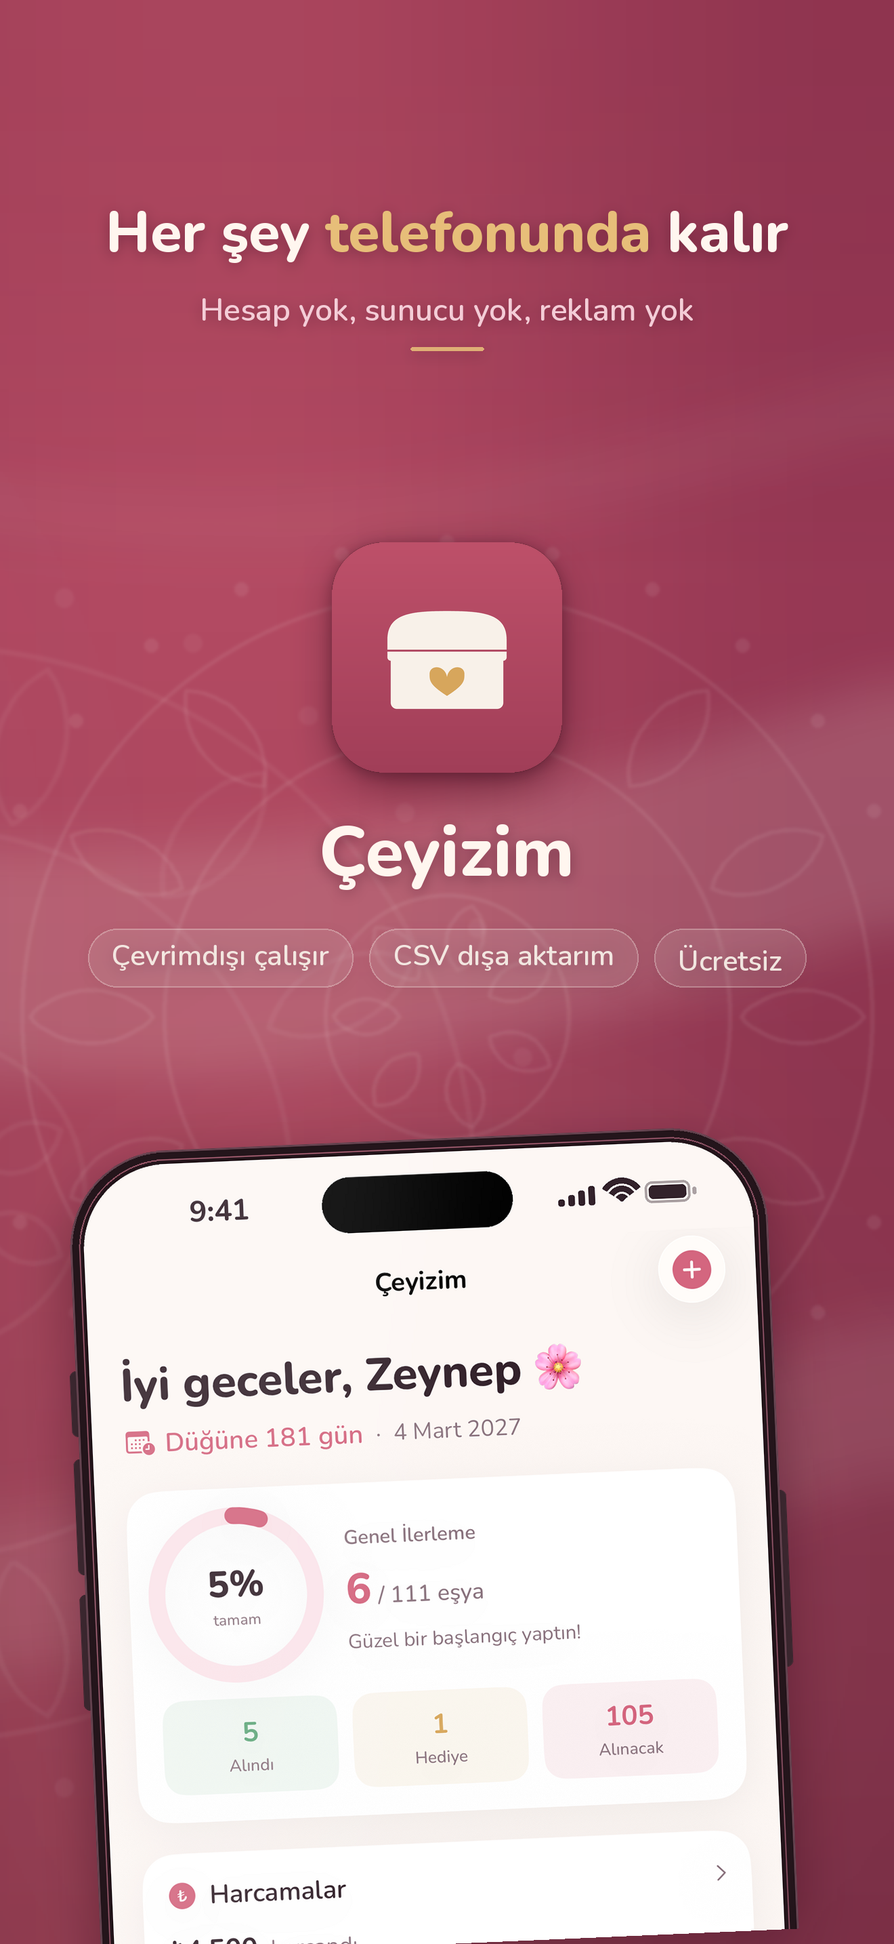
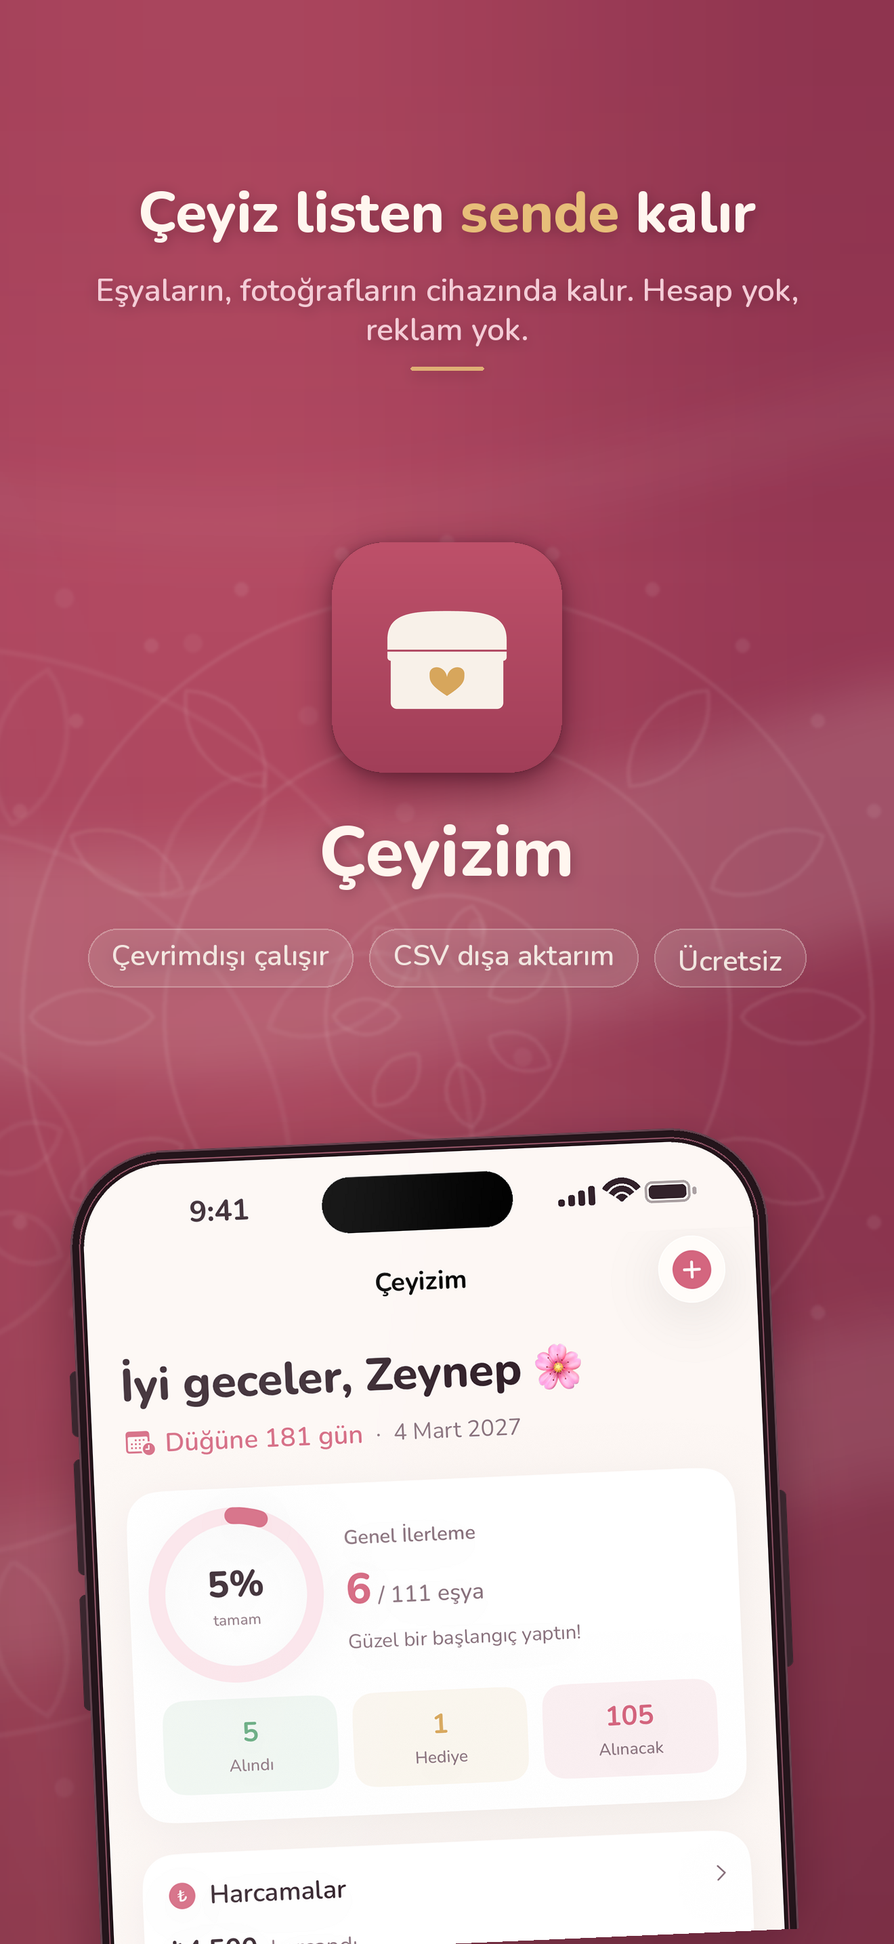
PostHog kullanım analitiği ekle, gizlilik beyanlarını güncelle
Ekran görüntülemeleri ve önemli buton tıklamalarını (eşya/kategori
ekleme, durum değişiklikleri, tema rengi, hazır liste, veri silme)
PostHog'un HTTP capture endpoint'ine (EU, eu.i.posthog.com) doğrudan
istek atan minik bir yardımcı (Ceyizim/Support/Analytics.swift) ile
izliyoruz — SDK bağımlılığı yok. Kimlik cihazda rastgele üretiliyor,
hiçbir kişisel veriyle eşleşmiyor; çeyiz listesinin içeriği (eşya adı,
fiyat, foto, not) hiçbir zaman gönderilmiyor.

Bu, 1.0–1.2'de Apple'a ve kullanıcıya verilen "hiç ağ isteği / veri
toplama yok" beyanını değiştiriyor:
- PrivacyInfo.xcprivacy: NSPrivacyCollectedDataTypeProductInteraction
  eklendi (linked: false, tracking: false, purpose: Analytics)
- Gizlilik politikası (AppStore/privacy-policy.md, docs/gizlilik/)
  PostHog'u açıkça belirtecek şekilde yeniden yazıldı
- Ayarlar ekranındaki "hiçbir sunucuya gönderilmez" beyanı düzeltildi
- Kapanış ekran görüntüsündeki "sunucu yok" iddiası kaldırıldı,
  görsel yeniden üretildi
- AppStore/asc-fields.md ve metadata.md'ye 1.3 için App Store
  Connect'te App Privacy etiketini ve İnceleme Notlarını nasıl
  güncelleyeceğimizi anlatan bölümler eklendi

Changed region(s): [[0.1242, 0.0931, 0.8697, 0.1862]]

diff --git a/docs/gizlilik/index.html b/docs/gizlilik/index.html
@@ -1,26 +1,30 @@
 <!doctype html><html lang="tr"><head><meta charset="utf-8"><meta name="viewport" content="width=device-width,initial-scale=1"><title>Çeyizim – Gizlilik Politikası</title><style>body{font-family:-apple-system,system-ui,sans-serif;max-width:720px;margin:40px auto;padding:0 20px;line-height:1.6;color:#33222B;background:#FDF7F4}h1,h2{font-family:Georgia,serif;color:#33222B}a{color:#D4667F}hr{border:0;border-top:1px solid #F0E2E6;margin:32px 0}</style></head><body><h1>Çeyizim Gizlilik Politikası</h1>
-<p><strong>Son güncelleme:</strong> 4 Eylül 2026</p>
+<p><strong>Son güncelleme:</strong> 22 Eylül 2026</p>
 <p>Çeyizim (&quot;Uygulama&quot;), çeyiz hazırlığınızı planlamanıza yardımcı olan bir iOS uygulamasıdır. Gizliliğiniz bizim için önemlidir; bu politika hangi verilerin nasıl işlendiğini açıklar.</p>
-<h2>Toplanan veriler</h2>
-<p>Çeyizim <strong>hiçbir kişisel veri toplamaz, iletmez veya üçüncü taraflarla paylaşmaz.</strong></p>
+<h2>Çeyiz listeniz</h2>
+<p>Uygulamaya girdiğiniz tüm bilgiler (adınız, düğün tarihiniz, eşya listeleriniz, fiyatlar, notlar ve fotoğraflar) <strong>yalnızca cihazınızda saklanır ve hiçbir sunucuya gönderilmez.</strong> Hesap oluşturma veya oturum açma yoktur.</p>
+<h2>Kullanım analitiği</h2>
+<p>Uygulamayı nasıl kullandığınızı anlayıp geliştirebilmek için PostHog (AB&#x27;de barındırılan bir analitik servisi) üzerinden <strong>kimliksiz kullanım istatistikleri</strong> topluyoruz: hangi ekranların açıldığı ve hangi düğmelere basıldığı gibi (örn. bir eşyanın &quot;Alındı&quot; işaretlenmesi, hazır listenin eklenmesi).</p>
 <ul>
-<li>Uygulamaya girdiğiniz tüm bilgiler (adınız, düğün tarihiniz, bütçeniz, eşya listeleriniz, fiyatlar, notlar ve fotoğraflar) yalnızca cihazınızda saklanır.</li>
-<li>Uygulama internet bağlantısı kullanmaz; hiçbir sunucuya veri göndermez.</li>
-<li>Hesap oluşturma veya oturum açma yoktur.</li>
-<li>Analitik, reklam veya takip (tracking) SDK&#x27;sı içermez.</li>
+<li>Bu veriler, cihazda rastgele üretilen ve isminizle, e-postanızla ya da girdiğiniz hiçbir bilgiyle eşleştirilmeyen bir kimlikle ilişkilendirilir.</li>
+<li>Çeyiz listenizin <strong>içeriği</strong> (eşya adları, fiyatlar, notlar, fotoğraflar) bu istatistiklere hiçbir şekilde dahil edilmez.</li>
+<li>Bu veriler reklam amacıyla kullanılmaz, üçüncü taraflarla (PostHog dışında) paylaşılmaz ve sizi başka uygulamalar veya web siteleri arasında takip etmek için kullanılmaz.</li>
+<li>Uygulama içinde reklam veya reklam SDK&#x27;sı yoktur.</li>
 </ul>
 <h2>Fotoğraflar</h2>
-<p>Bir eşyaya fotoğraf eklediğinizde, seçtiğiniz fotoğraf küçültülerek cihazınızdaki uygulama verisine kaydedilir. Uygulama fotoğraf kitaplığınızın tamamına erişmez; yalnızca sizin seçtiğiniz görüntüyü alır.</p>
+<p>Bir eşyaya fotoğraf eklediğinizde, seçtiğiniz fotoğraf küçültülerek cihazınızdaki uygulama verisine kaydedilir. Uygulama fotoğraf kitaplığınızın tamamına erişmez; yalnızca sizin seçtiğiniz görüntüyü alır. Fotoğraflar hiçbir sunucuya gönderilmez.</p>
 <h2>Veri paylaşımı</h2>
 <p>&quot;CSV olarak dışa aktar&quot; özelliğini kullandığınızda listeniz bir dosya olarak oluşturulur ve iOS paylaşım menüsü üzerinden seçtiğiniz uygulamaya/kişiye gönderilir. Bu paylaşımı yalnızca siz başlatırsınız.</p>
 <h2>Verilerin silinmesi</h2>
-<p>Verilerinizi Ayarlar &gt; &quot;Tüm verileri sil&quot; ile istediğiniz zaman kalıcı olarak silebilirsiniz. Uygulamayı cihazınızdan kaldırdığınızda tüm veriler de silinir.</p>
+<p>Çeyiz listenizi Ayarlar &gt; &quot;Tüm verileri sil&quot; ile istediğiniz zaman kalıcı olarak silebilirsiniz. Uygulamayı cihazınızdan kaldırdığınızda tüm veriler de silinir.</p>
 <h2>Çocukların gizliliği</h2>
-<p>Uygulama 13 yaş altı çocuklara yönelik değildir ve kimseden kişisel veri toplamaz.</p>
+<p>Uygulama 13 yaş altı çocuklara yönelik değildir ve kimseden bilerek kişisel veri toplamaz.</p>
 <h2>Değişiklikler</h2>
 <p>Bu politika güncellenirse yeni sürüm bu sayfada yayımlanır.</p>
 <h2>İletişim</h2>
 <p>Sorularınız için: tahakndcaliskan@gmail.com</p>
 <hr>
 <h1>Çeyizim Privacy Policy (English)</h1>
-<p>Çeyizim does not collect, transmit, or share any personal data. Everything you enter (name, wedding date, budget, item lists, prices, notes, photos) is stored only on your device. The app makes no network requests, has no accounts, and contains no analytics, advertising, or tracking SDKs. Photos you attach are downscaled and stored locally; the app only receives the images you explicitly pick. CSV export is initiated by you through the iOS share sheet. You can delete all data at any time from Settings, or by removing the app. Contact: tahakndcaliskan@gmail.com</p></body></html>
+<p>Everything you enter in Çeyizim (name, wedding date, item lists, prices, notes, photos) is stored only on your device and never sent to any server. There is no account or login.</p>
+<p>To understand how the app is used and improve it, we collect <strong>anonymous usage analytics</strong> via PostHog (hosted in the EU): which screens are opened and which actions are taken (e.g., marking an item &quot;purchased,&quot; applying the ready-made template). This is tied to a random, on-device identifier that is never linked to your name, email, or anything you enter. The content of your list — item names, prices, notes, photos — is never included in this data. It is not used for advertising, not shared with anyone besides our analytics processor, and not used to track you across other companies&#x27; apps or websites. The app contains no advertising or ad SDKs.</p>
+<p>Photos you attach are downscaled and stored locally; the app only receives the image you explicitly pick, and photos are never uploaded anywhere. CSV export is initiated by you through the iOS share sheet. You can delete all data at any time from Settings, or by removing the app. Contact: tahakndcaliskan@gmail.com</p></body></html>

diff --git a/Ceyizim/Views/Items/CategoryDetailView.swift b/Ceyizim/Views/Items/CategoryDetailView.swift
@@ -52,7 +52,10 @@ struct CategoryDetailView: View {
                                 .swipeActions(edge: .trailing, allowsFullSwipe: false) {
                                     Button(role: .destructive) { itemToDelete = item } label: { Label("Sil", systemImage: "trash") }
                                     if item.status != .gifted {
-                                        Button { withAnimation { item.mark(.gifted) } } label: { Label("Hediye", systemImage: "gift.fill") }
+                                        Button {
+                                            withAnimation { item.mark(.gifted) }
+                                            Analytics.track("item_marked_gifted")
+                                        } label: { Label("Hediye", systemImage: "gift.fill") }
                                             .tint(Palette.gold)
                                     }
                                 }
@@ -62,10 +65,14 @@ struct CategoryDetailView: View {
                                             withAnimation { item.mark(.purchased) }
                                             Haptics.success()
                                             ReviewPrompt.requestAfterFirstPurchase { requestReview() }
+                                            Analytics.track("item_marked_purchased")
                                         } label: { Label("Alındı", systemImage: "checkmark") }
                                             .tint(Palette.success)
                                     } else {
-                                        Button { withAnimation { item.mark(.planned) } } label: { Label("Alınacak", systemImage: "arrow.uturn.backward") }
+                                        Button {
+                                            withAnimation { item.mark(.planned) }
+                                            Analytics.track("item_marked_planned")
+                                        } label: { Label("Alınacak", systemImage: "arrow.uturn.backward") }
                                             .tint(Palette.textSecondary)
                                     }
                                 }
@@ -91,6 +98,7 @@ struct CategoryDetailView: View {
         .background(Palette.background)
         .navigationTitle(category.name)
         .navigationBarTitleDisplayMode(.inline)
+        .onAppear { Analytics.screen("category_detail") }
         .toolbar {
             ToolbarItem(placement: .topBarTrailing) {
                 HStack {
@@ -118,6 +126,7 @@ struct CategoryDetailView: View {
                             titleVisibility: .visible) {
             Button("Sil", role: .destructive) {
                 if let item = itemToDelete { context.delete(item) }
+                Analytics.track("item_deleted")
                 itemToDelete = nil
             }
             Button("Vazgeç", role: .cancel) { itemToDelete = nil }
@@ -160,6 +169,7 @@ struct CategoryDetailView: View {
     private func deleteCategory() {
         isDeleted = true
         dismiss()
+        Analytics.track("category_deleted")
         let target = category
         DispatchQueue.main.asyncAfter(deadline: .now() + 0.35) {
             context.delete(target)

diff --git a/Ceyizim/Views/Items/ItemsListView.swift b/Ceyizim/Views/Items/ItemsListView.swift
@@ -133,6 +133,7 @@ struct ItemsListView: View {
                                 titleVisibility: .visible) {
                 Button("Sil", role: .destructive) {
                     if let item = itemToDelete { context.delete(item) }
+                    Analytics.track("item_deleted")
                     itemToDelete = nil
                 }
                 Button("Vazgeç", role: .cancel) { itemToDelete = nil }
@@ -189,7 +190,10 @@ struct ItemsListView: View {
                                 Label("Sil", systemImage: "trash")
                             }
                             if item.status != .gifted {
-                                Button { withAnimation { item.mark(.gifted) } } label: {
+                                Button {
+                                    withAnimation { item.mark(.gifted) }
+                                    Analytics.track("item_marked_gifted")
+                                } label: {
                                     Label("Hediye", systemImage: "gift.fill")
                                 }.tint(Palette.gold)
                             }
@@ -200,11 +204,15 @@ struct ItemsListView: View {
                                     withAnimation { item.mark(.purchased) }
                                     Haptics.success()
                                     ReviewPrompt.requestAfterFirstPurchase { requestReview() }
+                                    Analytics.track("item_marked_purchased")
                                 } label: {
                                     Label("Alındı", systemImage: "checkmark")
                                 }.tint(Palette.success)
                             } else {
-                                Button { withAnimation { item.mark(.planned) } } label: {
+                                Button {
+                                    withAnimation { item.mark(.planned) }
+                                    Analytics.track("item_marked_planned")
+                                } label: {
                                     Label("Alınacak", systemImage: "arrow.uturn.backward")
                                 }.tint(Palette.textSecondary)
                             }

diff --git a/Ceyizim/Views/Settings/SettingsView.swift b/Ceyizim/Views/Settings/SettingsView.swift
@@ -93,6 +93,9 @@ struct SettingsView: View {
                     Picker("Para birimi", selection: $currency) {
                         ForEach(CurrencyOption.all) { Text($0.title).tag($0.code) }
                     }
+                    .onChange(of: currency) { _, newValue in
+                        Analytics.track("currency_changed", ["currency": newValue])
+                    }
                 } header: {
                     Text("Harcamalar")
                 } footer: {
@@ -115,7 +118,7 @@ struct SettingsView: View {
                 } header: {
                     Text("Veriler")
                 } footer: {
-                    Text("Verilerin yalnızca bu cihazda saklanır; hiçbir sunucuya gönderilmez. \(items.count) eşya, \(categories.count) kategori.")
+                    Text("Çeyiz listen (eşyalar, fotoğraflar, notlar) yalnızca bu cihazda saklanır, hiçbir sunucuya gönderilmez. Uygulamayı nasıl kullandığına dair kimliksiz istatistikler (örn. hangi ekranın açıldığı) paylaşılır. \(items.count) eşya, \(categories.count) kategori.")
                 }
 
                 Section("Hakkında") {
@@ -139,6 +142,7 @@ struct SettingsView: View {
                     seededTemplate = true
                     templateResult = added
                     Haptics.success()
+                    Analytics.track("template_applied", ["added_count": added])
                 }
                 Button("Vazgeç", role: .cancel) {}
             } message: {
@@ -161,6 +165,7 @@ struct SettingsView: View {
     }
 
     private func deleteAll() {
+        Analytics.track("all_data_deleted", ["item_count": items.count, "category_count": categories.count])
         for item in items { context.delete(item) }
         for category in categories { context.delete(category) }
         try? context.save()

diff --git a/Ceyizim/Support/Analytics.swift b/Ceyizim/Support/Analytics.swift
@@ -1,0 +1,40 @@
+import Foundation
+
+/// Minimal PostHog event capture over their public HTTP API — no SDK dependency.
+/// Uses a random, app-generated id (not IDFA/IDFV), never linked to name, email,
+/// or any other identity in the app. Fire-and-forget: never blocks the UI and
+/// silently drops events when offline.
+enum Analytics {
+    private static let apiKey = "phc_v5LAhymhZEt4jgSqt6YFz2Xc3SsrS3J3zhkah35AjsY9"
+    private static let endpoint = URL(string: "https://eu.i.posthog.com/capture/")!
+
+    private static let distinctID: String = {
+        let key = "posthogDistinctID"
+        if let existing = UserDefaults.standard.string(forKey: key) { return existing }
+        let generated = UUID().uuidString
+        UserDefaults.standard.set(generated, forKey: key)
+        return generated
+    }()
+
+    static func track(_ event: String, _ properties: [String: Any] = [:]) {
+        var props = properties
+        props["distinct_id"] = distinctID
+        let payload: [String: Any] = [
+            "api_key": apiKey,
+            "event": event,
+            "properties": props,
+            "timestamp": ISO8601DateFormatter().string(from: Date()),
+        ]
+        guard let body = try? JSONSerialization.data(withJSONObject: payload) else { return }
+        var request = URLRequest(url: endpoint)
+        request.httpMethod = "POST"
+        request.setValue("application/json", forHTTPHeaderField: "Content-Type")
+        request.httpBody = body
+        URLSession.shared.dataTask(with: request).resume()
+    }
+
+    /// Screen-view convenience — call from `.onAppear` on each top-level screen.
+    static func screen(_ name: String) {
+        track("screen_viewed", ["screen": name])
+    }
+}

diff --git a/Ceyizim/Views/Items/ItemDetailView.swift b/Ceyizim/Views/Items/ItemDetailView.swift
@@ -24,6 +24,7 @@ struct ItemDetailView: View {
         .background(Palette.background)
         .navigationTitle("")
         .navigationBarTitleDisplayMode(.inline)
+        .onAppear { Analytics.screen("item_detail") }
         .toolbar {
             ToolbarItem(placement: .topBarTrailing) {
                 Menu {
@@ -114,16 +115,19 @@ struct ItemDetailView: View {
                 actionButton(title: "Alındı", icon: "checkmark.circle.fill", color: Palette.success) {
                     item.mark(.purchased); Haptics.success()
                     ReviewPrompt.requestAfterFirstPurchase { requestReview() }
+                    Analytics.track("item_marked_purchased")
                 }
             }
             if item.status != .gifted {
                 actionButton(title: "Hediye geldi", icon: "gift.fill", color: Palette.gold) {
                     item.mark(.gifted); Haptics.success()
+                    Analytics.track("item_marked_gifted")
                 }
             }
             if item.status != .planned {
                 actionButton(title: "Alınacak'a al", icon: "arrow.uturn.backward.circle.fill", color: Palette.textSecondary) {
                     item.mark(.planned); Haptics.light()
+                    Analytics.track("item_marked_planned")
                 }
             }
         }
@@ -181,6 +185,7 @@ struct ItemDetailView: View {
     private func deleteItem() {
         isDeleted = true
         dismiss()
+        Analytics.track("item_deleted")
         let target = item
         DispatchQueue.main.asyncAfter(deadline: .now() + 0.35) {
             context.delete(target)

diff --git a/Ceyizim/Views/Settings/ThemePickerView.swift b/Ceyizim/Views/Settings/ThemePickerView.swift
@@ -28,6 +28,7 @@ struct ThemePickerView: View {
         .background(Palette.background.ignoresSafeArea())
         .navigationTitle("Tema rengi")
         .navigationBarTitleDisplayMode(.inline)
+        .onAppear { Analytics.screen("theme_picker") }
     }
 
     // MARK: - Live preview
@@ -95,7 +96,10 @@ struct ThemePickerView: View {
             LazyVGrid(columns: Array(repeating: GridItem(.flexible(), spacing: 12), count: 5),
                       spacing: 14) {
                 ForEach(AccentTheme.presets, id: \.name) { preset in
-                    Button { apply(preset.theme) } label: {
+                    Button {
+                        apply(preset.theme)
+                        Analytics.track("theme_changed", ["source": "preset", "preset": preset.name])
+                    } label: {
                         VStack(spacing: 6) {
                             Circle()
                                 .fill(preset.theme.accentLight)
@@ -123,6 +127,7 @@ struct ThemePickerView: View {
     private var resetButton: some View {
         Button {
             apply(.brand)
+            Analytics.track("theme_changed", ["source": "reset", "preset": "brand"])
         } label: {
             Label("Varsayılan güle dön", systemImage: "arrow.uturn.backward")
                 .font(Typo.subheadlineSemibold)

diff --git a/Ceyizim/CeyizimApp.swift b/Ceyizim/CeyizimApp.swift
@@ -48,10 +48,22 @@ struct RootView: View {
             }
         }
         .animation(.easeInOut(duration: 0.35), value: hasOnboarded)
+        .onAppear { Analytics.track("app_opened") }
     }
 }
 
-enum AppTab: Hashable { case home, list, budget, settings }
+enum AppTab: Hashable {
+    case home, list, budget, settings
+
+    var analyticsName: String {
+        switch self {
+        case .home: return "home"
+        case .list: return "items_list"
+        case .budget: return "budget"
+        case .settings: return "settings"
+        }
+    }
+}
 
 struct MainTabView: View {
     @State private var selection: AppTab = .home
@@ -71,5 +83,7 @@ struct MainTabView: View {
                 .tabItem { Label("Ayarlar", systemImage: "gearshape.fill") }
                 .tag(AppTab.settings)
         }
+        .onAppear { Analytics.screen(selection.analyticsName) }
+        .onChange(of: selection) { _, newValue in Analytics.screen(newValue.analyticsName) }
     }
 }

diff --git a/docs/index.html b/docs/index.html
@@ -11,7 +11,7 @@
 <li>Listeni CSV olarak dışa aktarma</li>
 </ul>
 <h2>Gizlilik</h2>
-<p>Tüm verilerin yalnızca telefonunda saklanır. Hesap yok, sunucu yok, reklam yok, takip yok.</p>
+<p>Çeyiz listen (eşyalar, fotoğraflar, notlar) yalnızca telefonunda saklanır, hiçbir sunucuya gönderilmez. Hesap yok, reklam yok, takip yok. <a href="gizlilik/">Ayrıntılar</a></p>
 <hr>
 <footer>
 <p><a href="gizlilik/">Gizlilik Politikası</a> · <a href="destek/">Destek</a> · <a href="mailto:tahakndcaliskan@gmail.com">tahakndcaliskan@gmail.com</a></p>

diff --git a/Ceyizim/Views/Items/ItemFormView.swift b/Ceyizim/Views/Items/ItemFormView.swift
@@ -223,9 +223,11 @@ struct ItemFormView: View {
         case .create:
             item = CeyizItem(name: trimmedName)
             context.insert(item)
+            Analytics.track("item_added", ["has_photo": photoData != nil])
         case .edit(let existing):
             item = existing
             item.name = trimmedName
+            Analytics.track("item_edited")
         }
         item.category = category
         item.quantity = quantity

diff --git a/Ceyizim/Views/Components/Components.swift b/Ceyizim/Views/Components/Components.swift
@@ -201,6 +201,7 @@ struct ItemRow: View {
                     item.mark(markingPurchased ? .purchased : .planned)
                 }
                 if markingPurchased { ReviewPrompt.requestAfterFirstPurchase { requestReview() } }
+                Analytics.track(markingPurchased ? "item_marked_purchased" : "item_marked_planned")
                 onToggle?()
             } label: {
                 Image(systemName: item.status.icon)

diff --git a/Ceyizim/Views/Onboarding/OnboardingView.swift b/Ceyizim/Views/Onboarding/OnboardingView.swift
@@ -254,6 +254,10 @@ struct OnboardingView: View {
             seededTemplate = true
         }
         Haptics.success()
+        Analytics.track("onboarding_completed", [
+            "used_template": useTemplate,
+            "set_wedding_date": hasWeddingDate,
+        ])
         hasOnboarded = true
     }
 }
